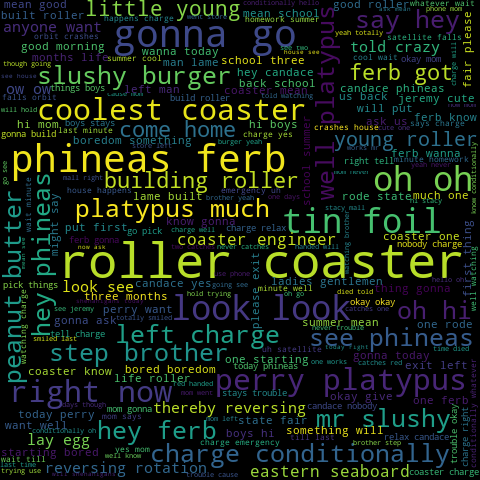
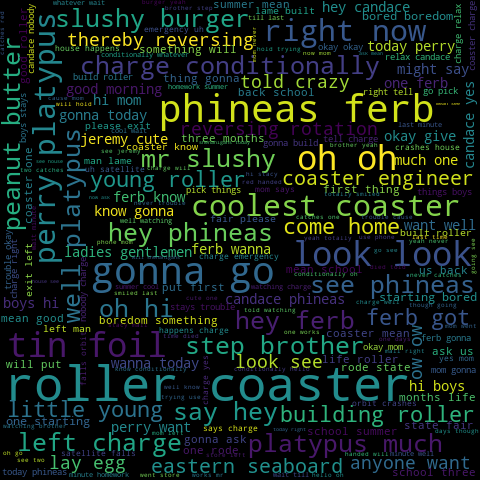
fix mask word cloud and phineas mask

diff --git a/word_cloud.py b/word_cloud.py
@@ -21,7 +21,7 @@ def generate_cloud(words, tv_show):
     # To view the figure
     # plt.show() 
 
-def generate_mask_word_cloud(words, mask):
+def generate_mask_word_cloud(words, mask, tv_show):
     char_mask = np.array(Image.open(mask, 'r').convert('RGB')) 
    
     wc = WordCloud(background_color="white", width=400, height=400, mask=char_mask)
@@ -42,9 +42,10 @@ def main():
 
     generate_cloud(words,tv_show)
 
-    mask_file = tv_show + "-mask.jpg"
-    if (path.exists("./" + tv_show + "/" + mask_file)):
-        generate_mask_word_cloud(words, mask_file)
+    mask_file = tv_show + "-mask.png"
+    mask_path = "./" + tv_show + "/" + mask_file
+    if (path.exists(mask_path)):
+        generate_mask_word_cloud(words, mask_path, tv_show)
 
 if __name__ == "__main__": 
     main()    
